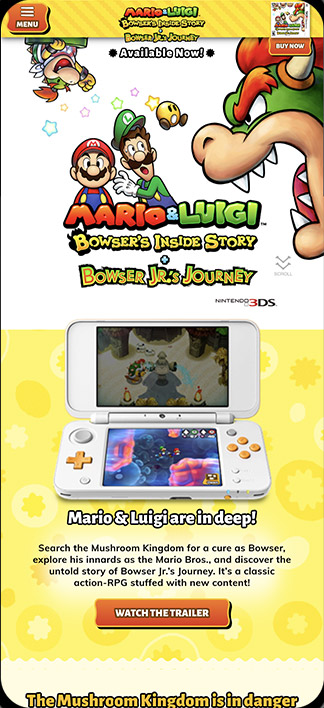
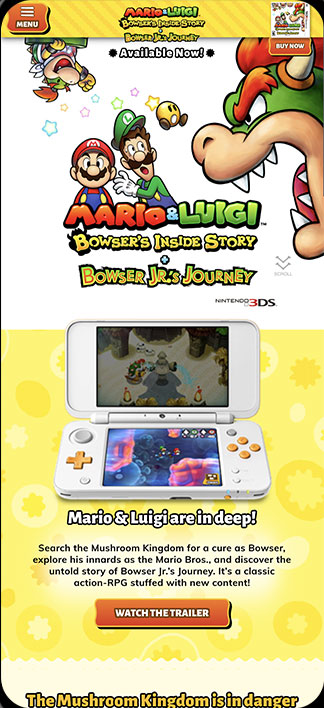
Fixed screencaps and phone positioning.

diff --git a/frontend/src/components/project-carousel-page/DeviceDisplay.module.scss b/frontend/src/components/project-carousel-page/DeviceDisplay.module.scss
@@ -41,8 +41,6 @@
       left: 97px;
       height: 310px;
       width: 500px;
-      // transition: transform 0.4s ease-in-out;
-      // will-change: transform;
     }
   }
 
@@ -50,8 +48,8 @@
     &::before {
       content: "";
       position: absolute;
-      top: 42px;
-      left: 460px;
+      top: 46px;
+      left: 465px;
       width: 220px;
       height: 409px;
       background-image: url("../../images/project-carousel/phone.png");
@@ -85,8 +83,8 @@
     &.landscape {
       &::before {
         transform: translateY(5px) rotate(91deg);
-        top: 130px;
-        left: 340px;
+        top: 135px;
+        left: 337px;
       }
       img {
         top: 258px;

diff --git a/README.md b/README.md
@@ -3,7 +3,7 @@
 [Visit the Live Site](https://bbinteractive.io)
 
 ## Features
-- **Native Swipe Parallax Carousel**: Previews for each portfolio project are presented through an infinite parallax carousel with seamless, native left/right user swiping.
+- **Native Swipe Parallax Carousel**: Previews for each portfolio project are presented through an infinite parallax carousel with seamless, native left/right user swiping. There are reasons you've probably never seen a carousel like this.
   - **Device Overlays**: Screenshots are dynamically overlaid onto mobile and desktop device mockups for a professional presentation.
   - **Dynamic Routing**: Each slide is linked through dynamic routing, ensuring a smooth and engaging user experience with deep linkning available.
   - **Actionable Links**: Includes buttons to access:
